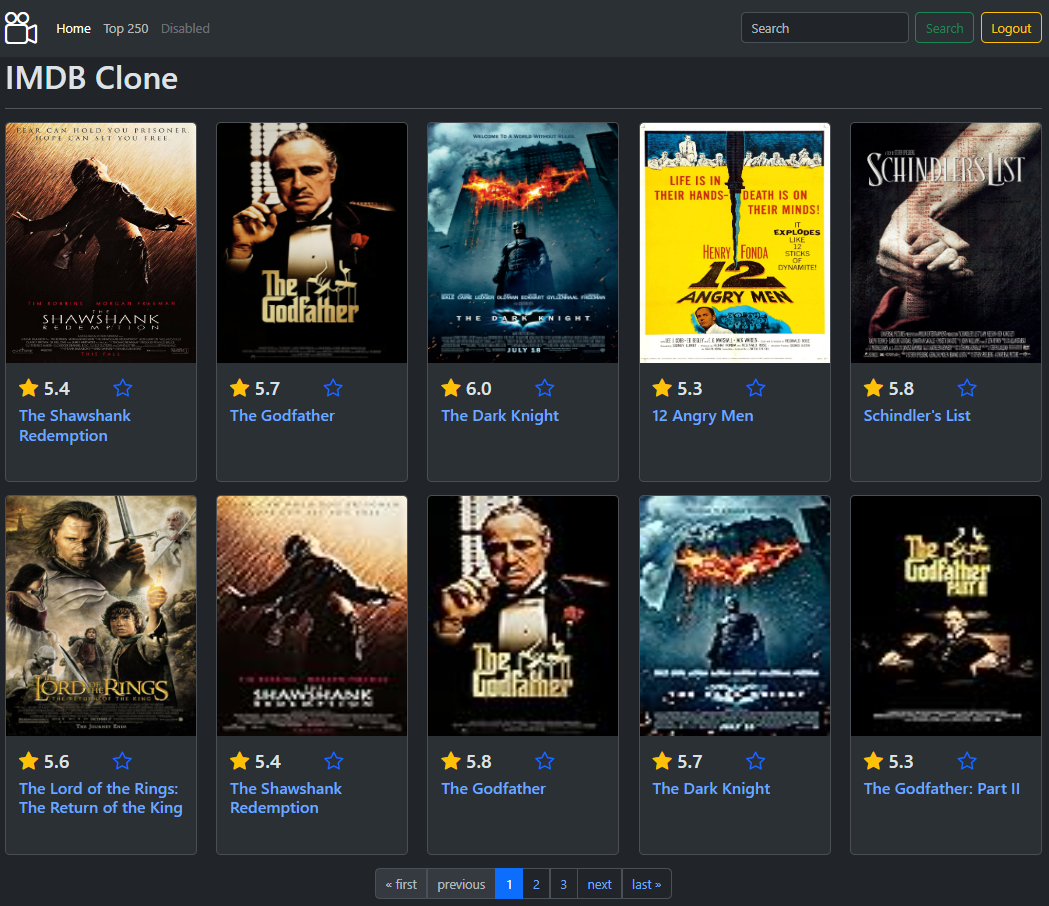
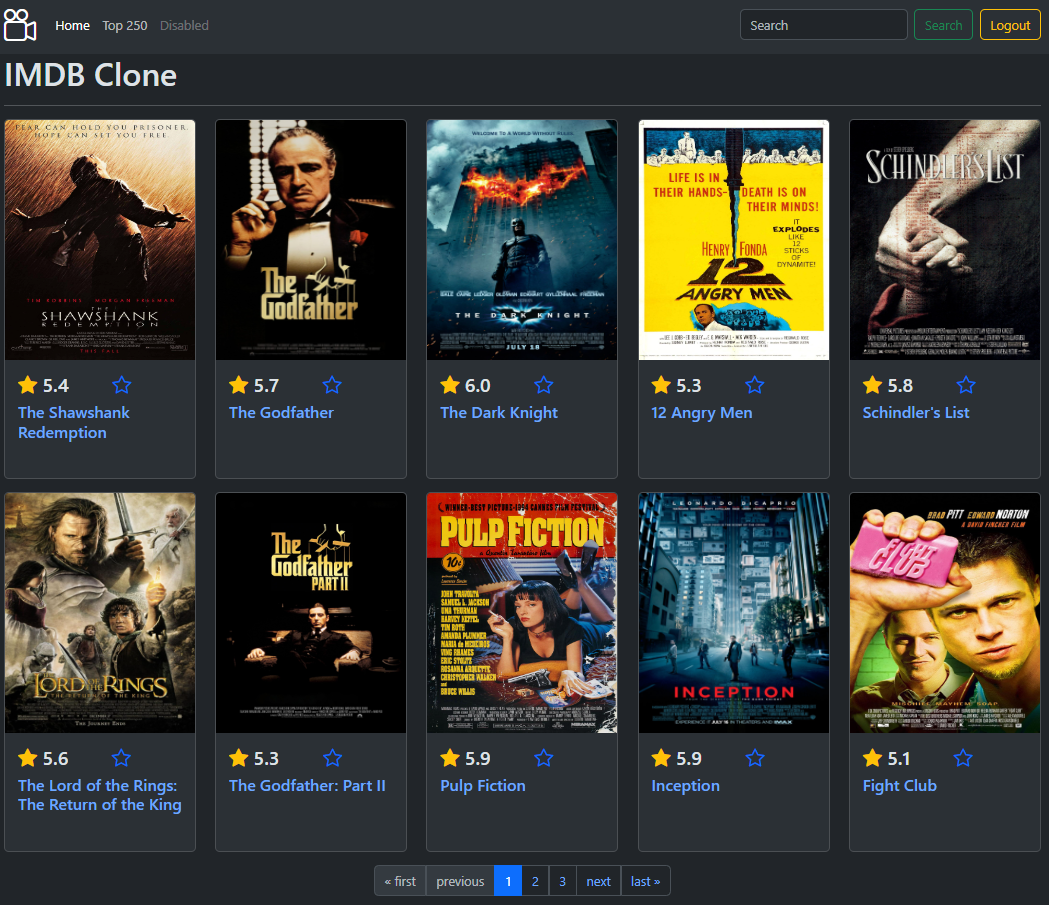
Change screenshot

Changed region(s): [[0.0, 0.0, 1.0, 1.0], [0.8541, 0.0, 1.0, 0.0619], [0.7016, 0.0, 0.7626, 0.0619]]

diff --git a/films/models.py b/films/models.py
@@ -42,6 +42,9 @@ class Film(models.Model):
             .get("rating__count", 0.0)
         )
 
+    class Meta:
+        ordering = ("id",)
+
 
 class Rating(models.Model):
     film = models.ForeignKey(Film, on_delete=models.CASCADE, related_name="ratings")
